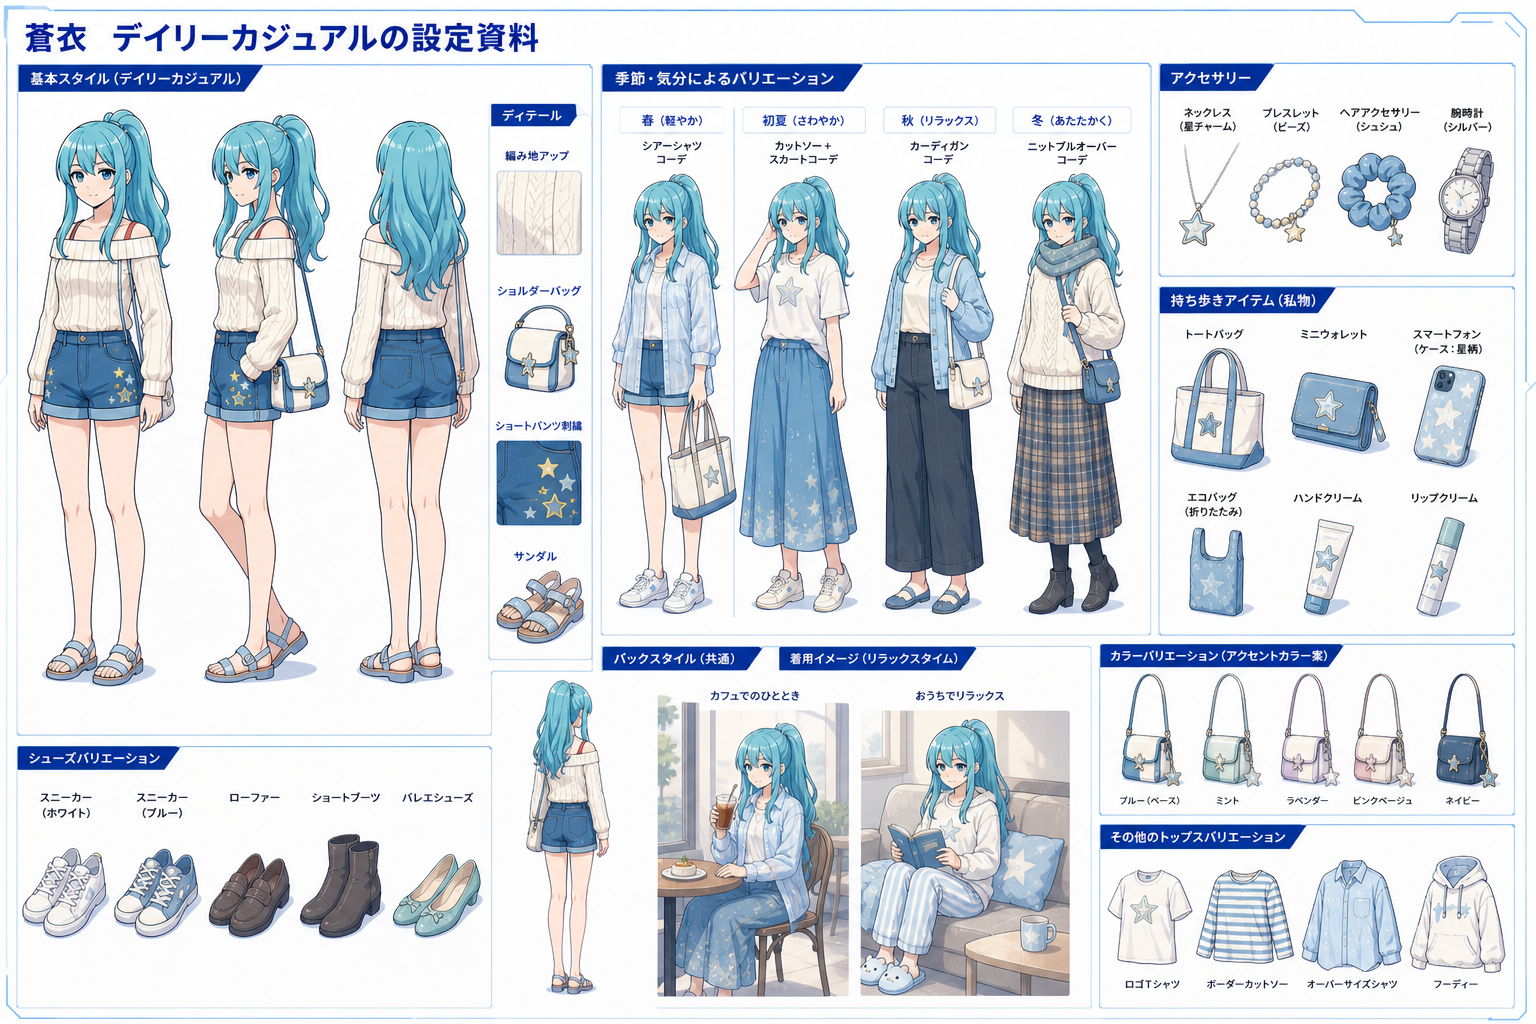
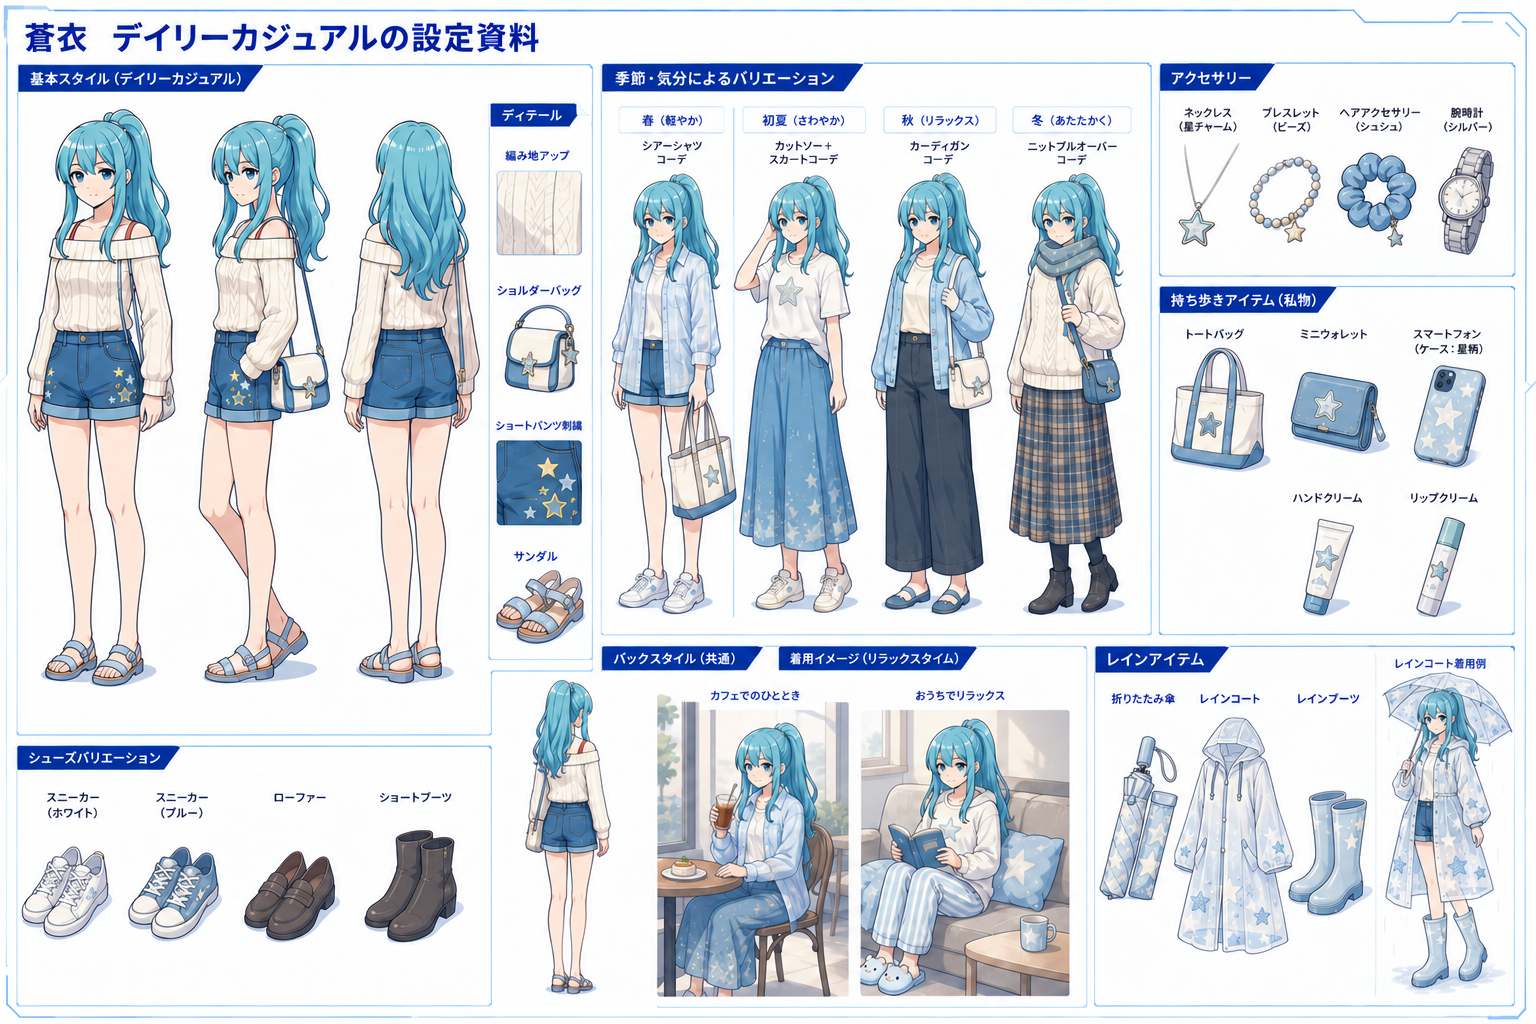
outfit_c の設定資料にレインアイテムを追加する
1. outfit_c.png を差し替える
   - 折りたたみ傘・レインコート・レインブーツと、その着用例を追加した資料に更新
2. image_guideline.md の outfit_c.png の索引を新しい資料に合わせる
   - 資料から外れたトップスバリエーションの記述を削除
   - 着用イメージの内容と、レインアイテムの構成・星のモチーフの置き場所を追記

diff --git a/assets/image_guideline.md b/assets/image_guideline.md
@@ -112,7 +112,9 @@
 登山装備（アクティブフィールド）。ベーススタイル（前後2面図）と季節仕様（サマー／ショルダーシーズン／ウィンター）、季節仕様とは別立てのレインウェア（レインコートの上下セットアップ・前後2面図）、装備品一覧（トレッキングポール・アイゼン・ヘルメット・サングラス）、バックパック詳細・レイヤリング例（ウィンター）・携行アイテム例を収録。装備の各所に星のモチーフ。
 
 ### outfit_c.png（碧衣 デイリーカジュアルの設定資料）
-デイリーカジュアル。基本スタイル（オフショルニット＋デニムショートパンツ）と四季別コーデ、アクセサリー・持ち歩きアイテム・シューズ／トップスバリエーション・室内イメージを収録。星柄のモチーフがバッグや小物に配置。
+デイリーカジュアル。基本スタイル（オフショルニット＋デニムショートパンツ）と四季別コーデ、アクセサリー・持ち歩きアイテム・シューズバリエーション・着用イメージ（カフェ／自宅でのリラックスタイム）に加え、四季別コーデとは別立てのレインアイテムを収録。星柄のモチーフがバッグや小物に配置。
+
+* **レインアイテム**: 折りたたみ傘（収納袋付き）・半透明のフード付きロングレインコート・レインブーツと、その着用例（基本スタイルの上にレインコートを羽織り、星柄の透明な傘を差してレインブーツを履いた姿）。星のモチーフは、傘の生地・レインコート全体・レインブーツに散らした白と水色の星柄。
 
 ### outfit_d.png（碧衣 ルームウェアの設定資料）
 ルームウェア。星柄の水色モコモコパーカー＋ロングパンツの基本スタイルと季節バリエーション、就寝アイテム・カラーバリエーション・ディテール・リラックスタイムの情景を収録。随所に星のモチーフ。
